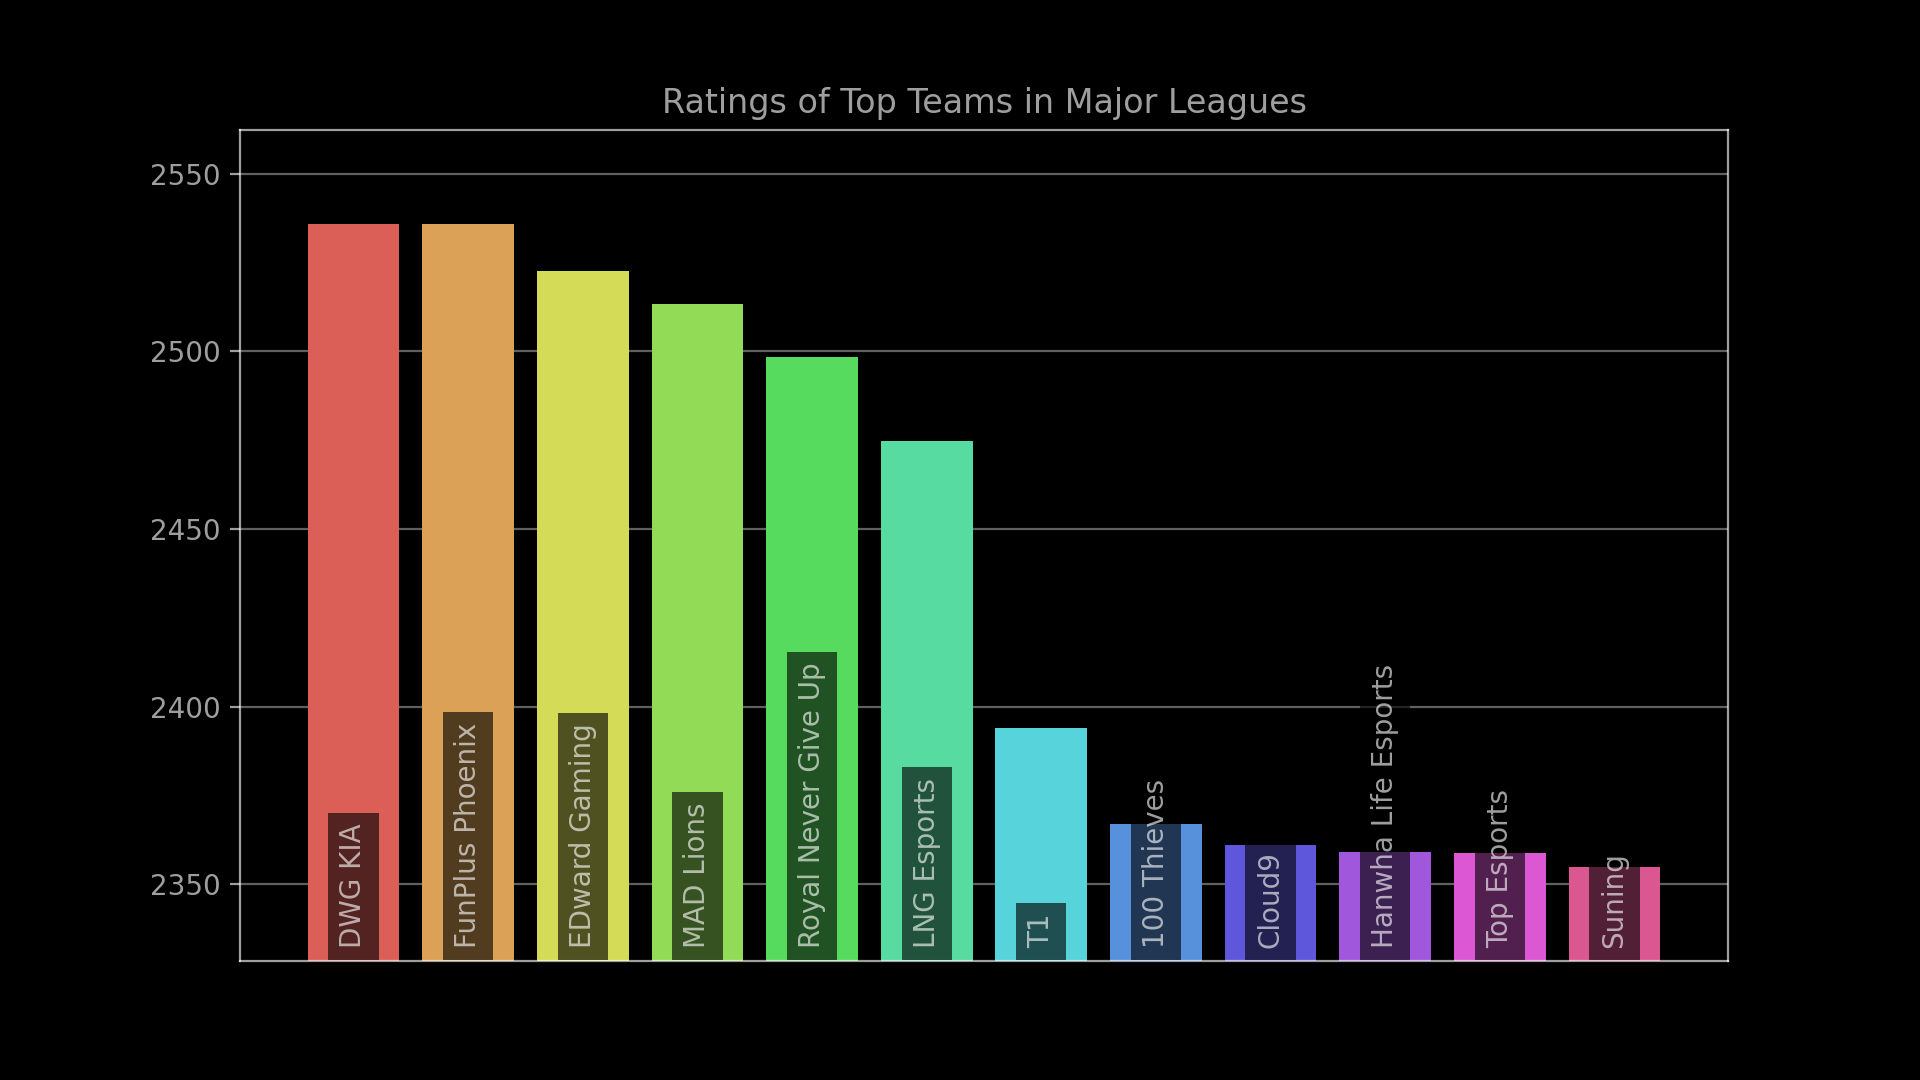
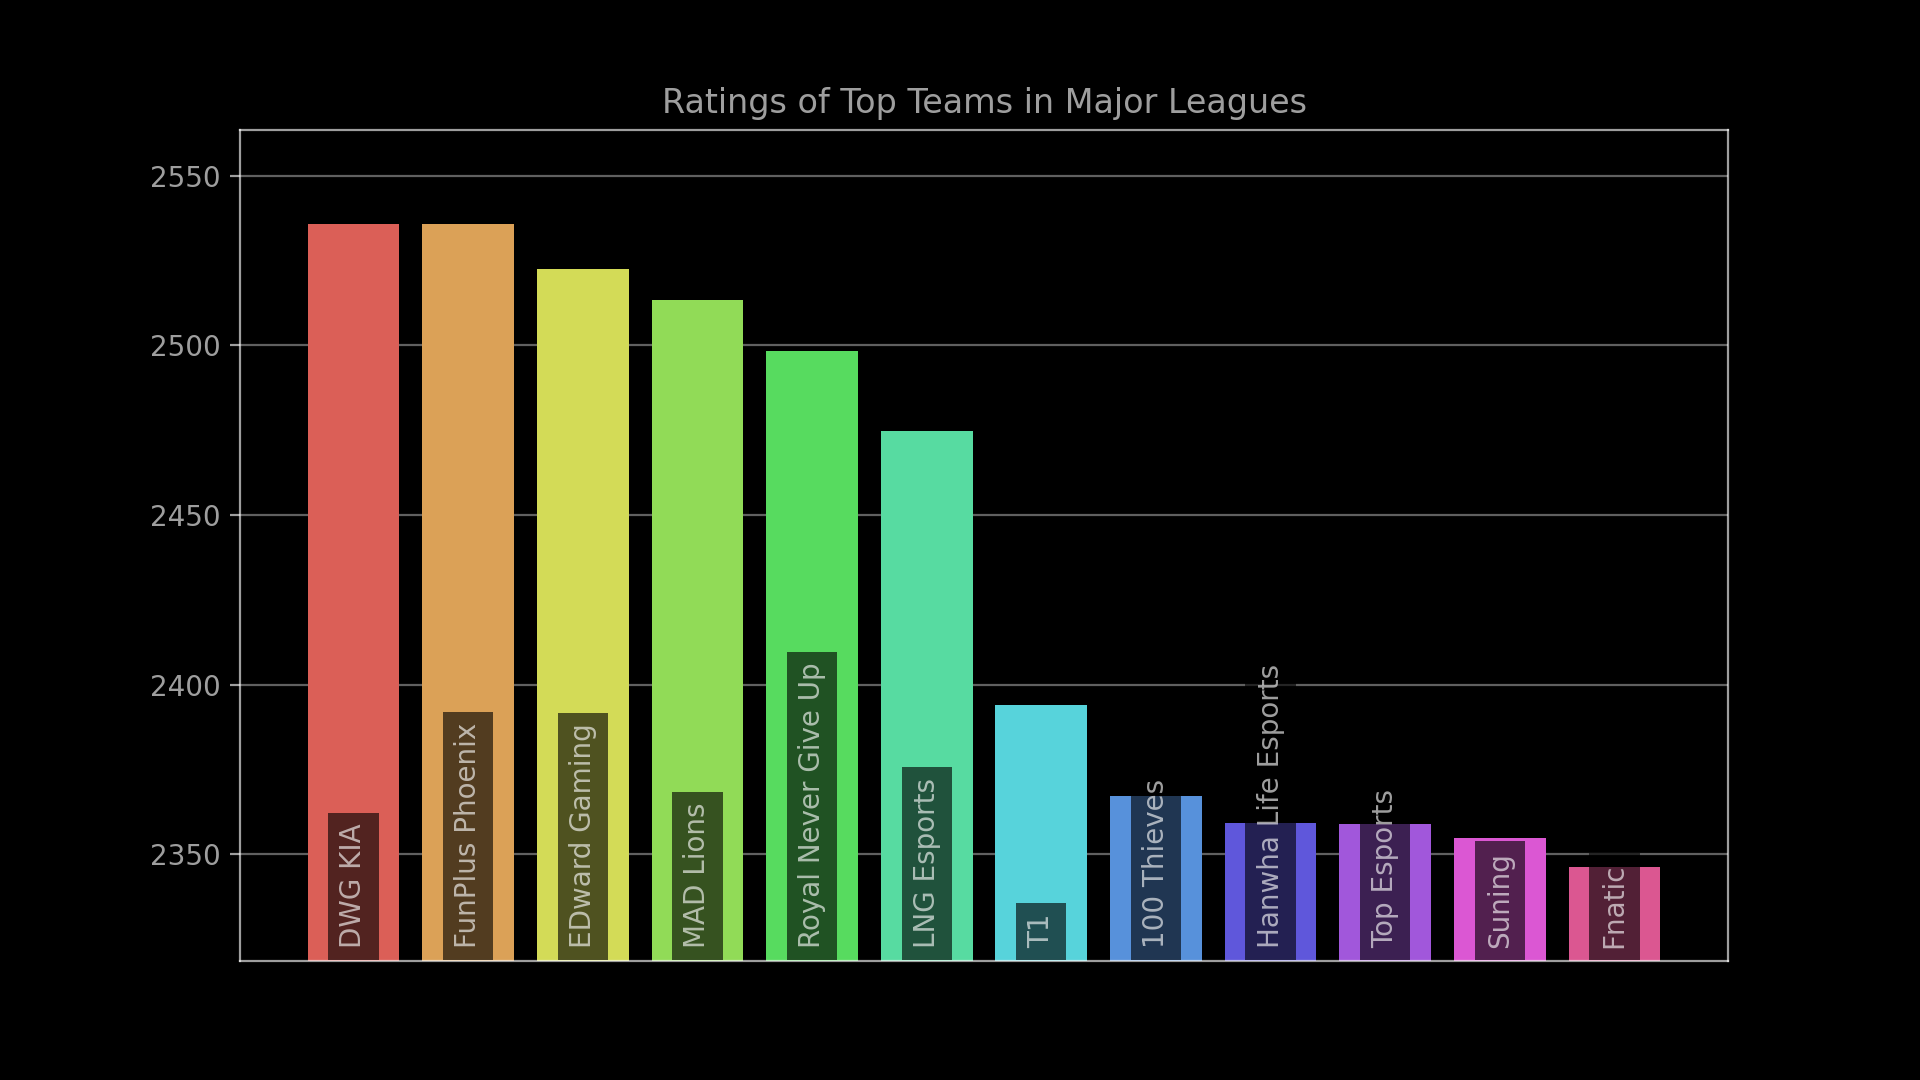
Update rating charts for 2021-10-07 17:00:00.

diff --git a/index.html b/index.html
@@ -85,19 +85,19 @@
             <tr><td style="text-align: right">7</td><td class="name">LNG Esports</td><td class="league" style="text-align: center">LPL</td><td class="rating" style="text-align: center">2474.7</td><td class="diff" style="text-align: center; white-space: nowrap"><span style="color: #4CAF50">&plus;46.9</span></td></tr>
             <tr><td style="text-align: right">8</td><td class="name">T1</td><td class="league" style="text-align: center">LCK</td><td class="rating" style="text-align: center">2394.1</td><td class="diff" style="text-align: center; white-space: nowrap"></td></tr>
             <tr><td style="text-align: right">9</td><td class="name">100 Thieves</td><td class="league" style="text-align: center">LCS</td><td class="rating" style="text-align: center">2367.1</td><td class="diff" style="text-align: center; white-space: nowrap"></td></tr>
-            <tr><td style="text-align: right">10</td><td class="name">Cloud9</td><td class="league" style="text-align: center">LCS</td><td class="rating" style="text-align: center">2361.2</td><td class="diff" style="text-align: center; white-space: nowrap"><span style="color: #4CAF50">&plus;26.1</span></td></tr>
-            <tr><td style="text-align: right">11</td><td class="name">Hanwha Life Esports</td><td class="league" style="text-align: center">LCK</td><td class="rating" style="text-align: center">2359.1</td><td class="diff" style="text-align: center; white-space: nowrap"><span style="color: #4CAF50">&plus;43.8</span></td></tr>
-            <tr><td style="text-align: right">12</td><td class="name">Top Esports</td><td class="league" style="text-align: center">LPL</td><td class="rating" style="text-align: center">2358.8</td><td class="diff" style="text-align: center; white-space: nowrap"></td></tr>
-            <tr><td style="text-align: right">13</td><td class="name">Suning</td><td class="league" style="text-align: center">LPL</td><td class="rating" style="text-align: center">2354.8</td><td class="diff" style="text-align: center; white-space: nowrap"></td></tr>
-            <tr><td style="text-align: right">14</td><td class="name">Fnatic</td><td class="league" style="text-align: center">LEC</td><td class="rating" style="text-align: center">2346.2</td><td class="diff" style="text-align: center; white-space: nowrap"></td></tr>
+            <tr><td style="text-align: right">10</td><td class="name">Hanwha Life Esports</td><td class="league" style="text-align: center">LCK</td><td class="rating" style="text-align: center">2359.1</td><td class="diff" style="text-align: center; white-space: nowrap"><span style="color: #4CAF50">&plus;43.8</span></td></tr>
+            <tr><td style="text-align: right">11</td><td class="name">Top Esports</td><td class="league" style="text-align: center">LPL</td><td class="rating" style="text-align: center">2358.8</td><td class="diff" style="text-align: center; white-space: nowrap"></td></tr>
+            <tr><td style="text-align: right">12</td><td class="name">Suning</td><td class="league" style="text-align: center">LPL</td><td class="rating" style="text-align: center">2354.8</td><td class="diff" style="text-align: center; white-space: nowrap"></td></tr>
+            <tr><td style="text-align: right">13</td><td class="name">Fnatic</td><td class="league" style="text-align: center">LEC</td><td class="rating" style="text-align: center">2346.2</td><td class="diff" style="text-align: center; white-space: nowrap"></td></tr>
+            <tr><td style="text-align: right">14</td><td class="name">DetonatioN FocusMe</td><td class="league" style="text-align: center">LJL</td><td class="rating" style="text-align: center">2342.2</td><td class="diff" style="text-align: center; white-space: nowrap"><span style="color: #4CAF50">&plus;128.0</span></td></tr>
             <tr><td style="text-align: right">15</td><td class="name">Team WE</td><td class="league" style="text-align: center">LPL</td><td class="rating" style="text-align: center">2340.1</td><td class="diff" style="text-align: center; white-space: nowrap"></td></tr>
             <tr><td style="text-align: right">16</td><td class="name">Gen.G</td><td class="league" style="text-align: center">LCK</td><td class="rating" style="text-align: center">2329.0</td><td class="diff" style="text-align: center; white-space: nowrap"></td></tr>
-            <tr><td style="text-align: right">17</td><td class="name">Beyond Gaming</td><td class="league" style="text-align: center">PCS</td><td class="rating" style="text-align: center">2324.0</td><td class="diff" style="text-align: center; white-space: nowrap"><span style="color: #F44336">&minus;55.4</span></td></tr>
-            <tr><td style="text-align: right">18</td><td class="name">Bilibili Gaming</td><td class="league" style="text-align: center">LPL</td><td class="rating" style="text-align: center">2318.9</td><td class="diff" style="text-align: center; white-space: nowrap"></td></tr>
-            <tr><td style="text-align: right">19</td><td class="name">G2 Esports</td><td class="league" style="text-align: center">LEC</td><td class="rating" style="text-align: center">2313.3</td><td class="diff" style="text-align: center; white-space: nowrap"></td></tr>
-            <tr><td style="text-align: right">20</td><td class="name">Rare Atom</td><td class="league" style="text-align: center">LPL</td><td class="rating" style="text-align: center">2313.0</td><td class="diff" style="text-align: center; white-space: nowrap"></td></tr>
-            <tr><td style="text-align: right">21</td><td class="name">Afreeca Freecs</td><td class="league" style="text-align: center">LCK</td><td class="rating" style="text-align: center">2305.4</td><td class="diff" style="text-align: center; white-space: nowrap"></td></tr>
-            <tr><td style="text-align: right">22</td><td class="name">DetonatioN FocusMe</td><td class="league" style="text-align: center">LJL</td><td class="rating" style="text-align: center">2303.9</td><td class="diff" style="text-align: center; white-space: nowrap"><span style="color: #4CAF50">&plus;89.7</span></td></tr>
+            <tr><td style="text-align: right">17</td><td class="name">Cloud9</td><td class="league" style="text-align: center">LCS</td><td class="rating" style="text-align: center">2328.2</td><td class="diff" style="text-align: center; white-space: nowrap"><span style="color: #F44336">&minus;6.9</span></td></tr>
+            <tr><td style="text-align: right">18</td><td class="name">Beyond Gaming</td><td class="league" style="text-align: center">PCS</td><td class="rating" style="text-align: center">2324.0</td><td class="diff" style="text-align: center; white-space: nowrap"><span style="color: #F44336">&minus;55.4</span></td></tr>
+            <tr><td style="text-align: right">19</td><td class="name">Bilibili Gaming</td><td class="league" style="text-align: center">LPL</td><td class="rating" style="text-align: center">2318.9</td><td class="diff" style="text-align: center; white-space: nowrap"></td></tr>
+            <tr><td style="text-align: right">20</td><td class="name">G2 Esports</td><td class="league" style="text-align: center">LEC</td><td class="rating" style="text-align: center">2313.3</td><td class="diff" style="text-align: center; white-space: nowrap"></td></tr>
+            <tr><td style="text-align: right">21</td><td class="name">Rare Atom</td><td class="league" style="text-align: center">LPL</td><td class="rating" style="text-align: center">2313.0</td><td class="diff" style="text-align: center; white-space: nowrap"></td></tr>
+            <tr><td style="text-align: right">22</td><td class="name">Afreeca Freecs</td><td class="league" style="text-align: center">LCK</td><td class="rating" style="text-align: center">2305.4</td><td class="diff" style="text-align: center; white-space: nowrap"></td></tr>
             <tr><td style="text-align: right">23</td><td class="name">CrowCrowd</td><td class="league" style="text-align: center">LCL</td><td class="rating" style="text-align: center">2303.4</td><td class="diff" style="text-align: center; white-space: nowrap"></td></tr>
             <tr><td style="text-align: right">24</td><td class="name">Team Liquid</td><td class="league" style="text-align: center">LCS</td><td class="rating" style="text-align: center">2301.5</td><td class="diff" style="text-align: center; white-space: nowrap"></td></tr>
             <tr><td style="text-align: right">25</td><td class="name">TSM</td><td class="league" style="text-align: center">LCS</td><td class="rating" style="text-align: center">2289.8</td><td class="diff" style="text-align: center; white-space: nowrap"></td></tr>

diff --git a/assets/js/chart-config.js b/assets/js/chart-config.js
@@ -3,10 +3,10 @@ const MONTH_ABBREVIATIONS = ["Jan", "Feb", "Mar", "Apr", "May", "Jun", "Jul", "A
 const topChartConfig = {
     type: "bar",
     data: {
-        labels: ['DWG KIA', 'FunPlus Phoenix', 'EDward Gaming', 'MAD Lions', 'Royal Never Give Up', 'LNG Esports', 'T1', '100 Thieves', 'Cloud9', 'Hanwha Life Esports', 'Top Esports', 'Suning'],
+        labels: ['DWG KIA', 'FunPlus Phoenix', 'EDward Gaming', 'MAD Lions', 'Royal Never Give Up', 'LNG Esports', 'T1', '100 Thieves', 'Hanwha Life Esports', 'Top Esports', 'Suning', 'Fnatic'],
         datasets: [{
             backgroundColor: ['#dc5f57', '#dca157', '#d4dc57', '#91dc57', '#57dc5f', '#57dca1', '#57d4dc', '#5791dc', '#5f57dc', '#a157dc', '#dc57d4', '#dc5791'],
-            data: [2535.913091706714, 2535.666297660901, 2522.634474588147, 2513.3692126537712, 2498.3555569730647, 2474.6783422093486, 2394.075777242202, 2367.1068217865895, 2361.1711730637517, 2359.1074321443766, 2358.8275642289427, 2354.8123246379455],
+            data: [2535.913091706714, 2535.666297660901, 2522.634474588147, 2513.3692126537712, 2498.3555569730647, 2474.6783422093486, 2394.075777242202, 2367.1068217865895, 2359.1074321443766, 2358.8275642289427, 2354.8123246379455, 2346.195094695211],
             label: "Rating Points"
         }]
     },
@@ -34,8 +34,8 @@ const topChartConfig = {
                 }
             },
             y: {
-                max: 2562,
-                min: 2328
+                max: 2564,
+                min: 2318
             }
         }
     }

diff --git a/README.md b/README.md
@@ -53,13 +53,13 @@ confidence interval of the rating.
 | 6 | LNG Esports | 2474.7 | 76.8 |
 | 7 | T1 | 2394.1 | 65.9 |
 | 8 | 100 Thieves | 2367.1 | 68.7 |
-| 9 | Cloud9 | 2361.2 | 77.3 |
-| 10 | Hanwha Life Esports | 2359.1 | 76.3 |
-| 11 | Top Esports | 2358.8 | 71.2 |
-| 12 | Suning | 2354.8 | 69.8 |
-| 13 | Fnatic | 2346.2 | 67.0 |
-| 14 | Team WE | 2340.1 | 61.8 |
-| 15 | Gen.G | 2329.0 | 69.0 |
+| 9 | Hanwha Life Esports | 2359.1 | 76.3 |
+| 10 | Top Esports | 2358.8 | 71.2 |
+| 11 | Suning | 2354.8 | 69.8 |
+| 12 | Fnatic | 2346.2 | 67.0 |
+| 13 | Team WE | 2340.1 | 61.8 |
+| 14 | Gen.G | 2329.0 | 69.0 |
+| 15 | Cloud9 | 2328.2 | 74.0 |
 | 16 | Bilibili Gaming | 2318.9 | 73.6 |
 | 17 | G2 Esports | 2313.3 | 79.1 |
 | 18 | Rare Atom | 2313.0 | 77.3 |
